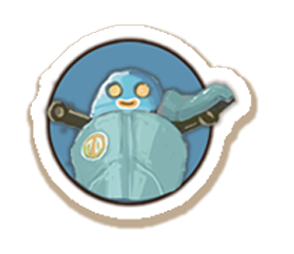
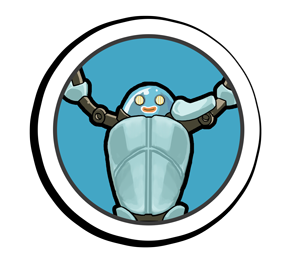
added new art for the main menu

diff --git a/Assets/Scripts/MainMenu/MainMenuGUI.cs b/Assets/Scripts/MainMenu/MainMenuGUI.cs
@@ -86,7 +86,7 @@ public class MainMenuGUI : MonoBehaviour {
 				print ("main button");	
 			}
 #else
-			if(GUI.Button(new Rect(Screen.width/2 -Screen.width/4 , Screen.height/4 + Screen.width/10, Screen.width/2 , Screen.width/2 -Screen.width/10 ), gameTitleTexture, NoStyle)){
+			if(GUI.Button(new Rect(Screen.width/2 -Screen.width/5 , Screen.height/4 + Margin, Screen.width/2 , Screen.width/2 -Screen.width/10 ), gameTitleTexture, NoStyle)){
 				print ("main button");	
 			}
 			
